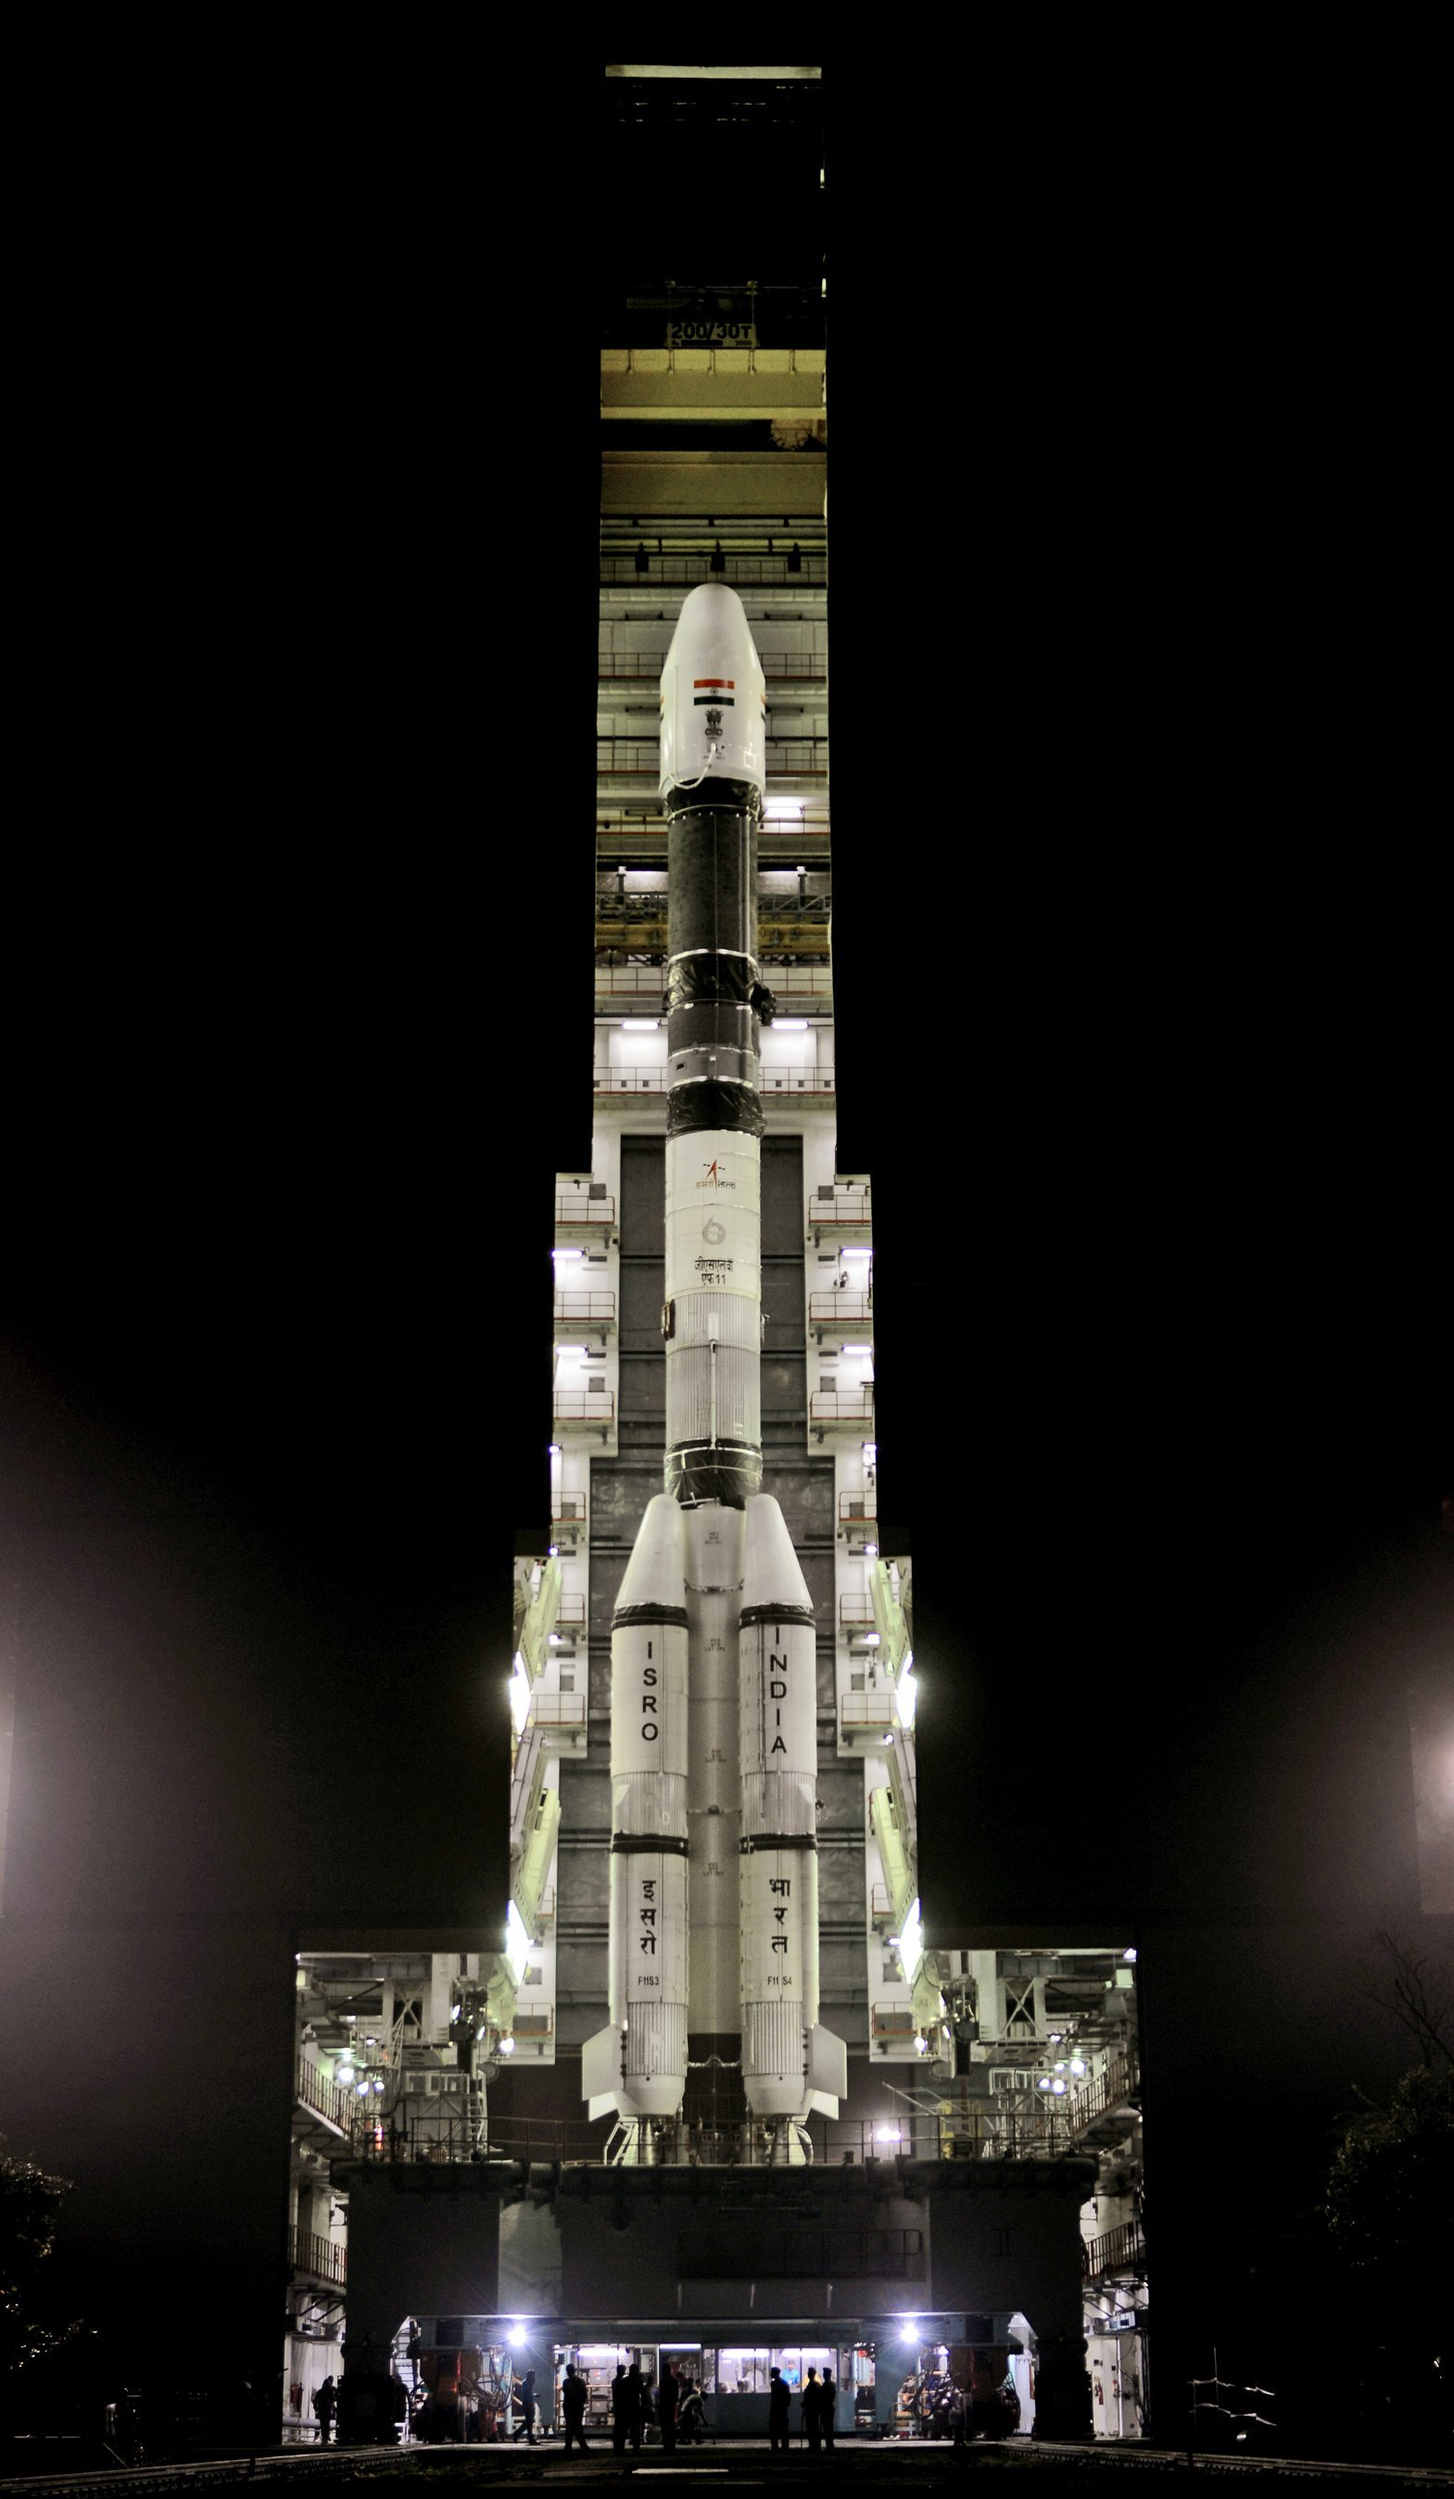
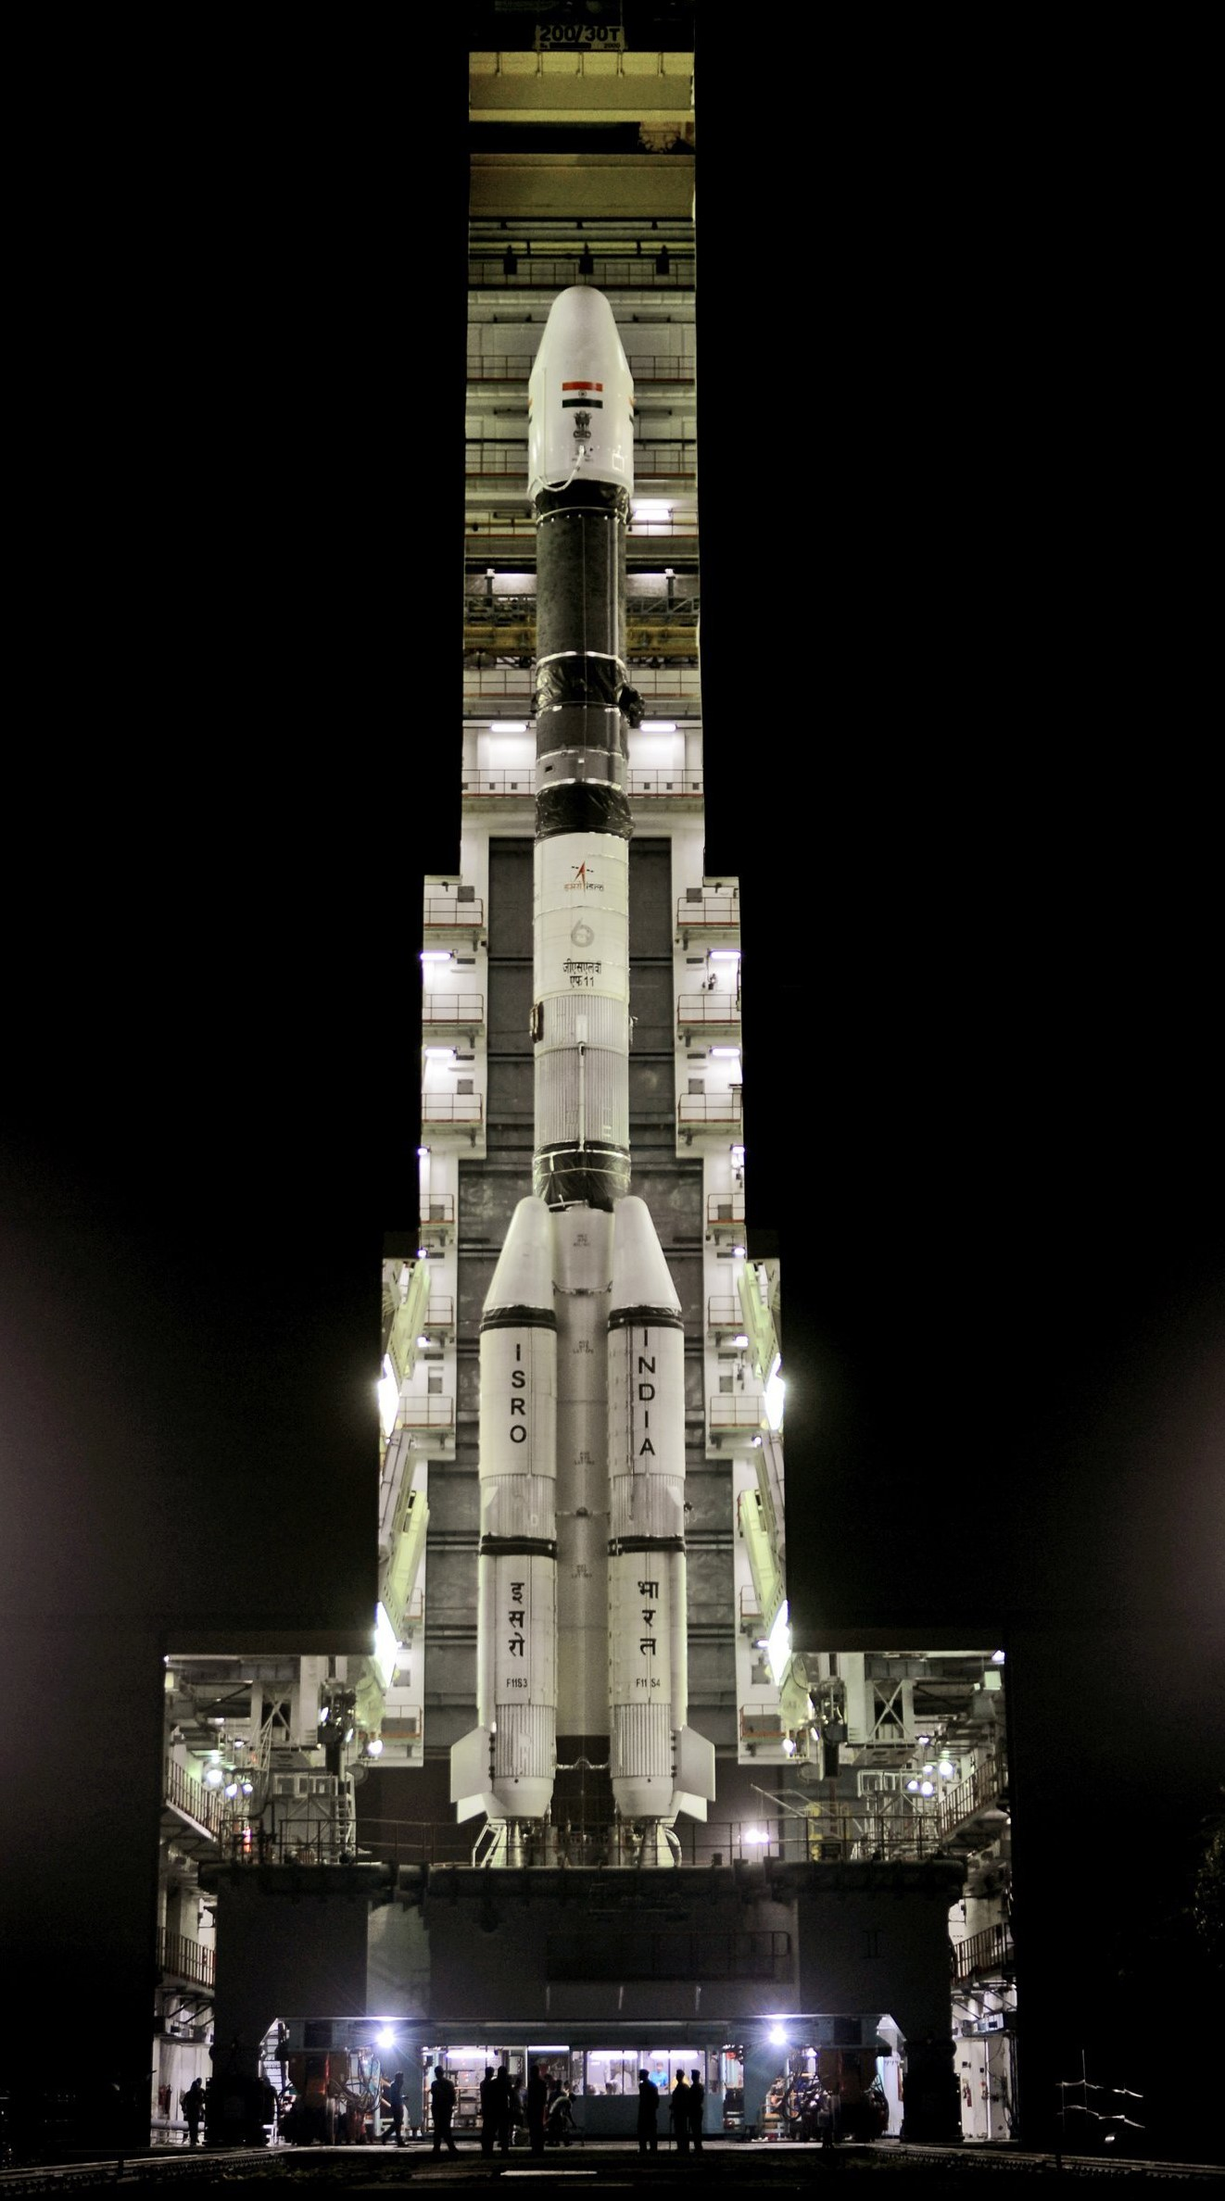
14.1

Changed region(s): [[0.0, 0.0, 1.0, 1.0], [0.8684, 0.654, 1.0, 0.8409]]

diff --git a/Rockets/GSLV/gslv.html b/Rockets/GSLV/gslv.html
@@ -49,15 +49,15 @@
       flex: 1;
       display: flex;
       align-items: stretch;
-      height: 90%;
+      height: 88%;
     }
 
     .image-container img {
       width: 80%;
-      height: 110%;
+      height: 88%;
       object-fit: cover;
       border-radius: 10px; /* Add rounded corners */
-      margin-top: -15%;
+      margin-top: -1%;
     }
 
 
@@ -65,13 +65,13 @@
       flex: 1;
       display: flex;
       align-items: stretch;
-     height: 50%;
+      height: 100%;
       margin-left: 3%;
     }
 
     .image-container2 img {
       width: 80%;
-      
+      height: 120%;
       object-fit: cover;
       border-radius: 10px; /* Add rounded corners */
       margin-top: -15%;
@@ -141,7 +141,11 @@
       flex: 2;
     }
     .logopslv{
-      margin-bottom: 10%;
+      height: 85%;
+      width: 13%;
+      margin-bottom: 2%;
+     margin-top: -4%;
+
     }
     .lvm3-2{
     
@@ -149,6 +153,7 @@
       
     }
 
+ 
 
 
   </style>
